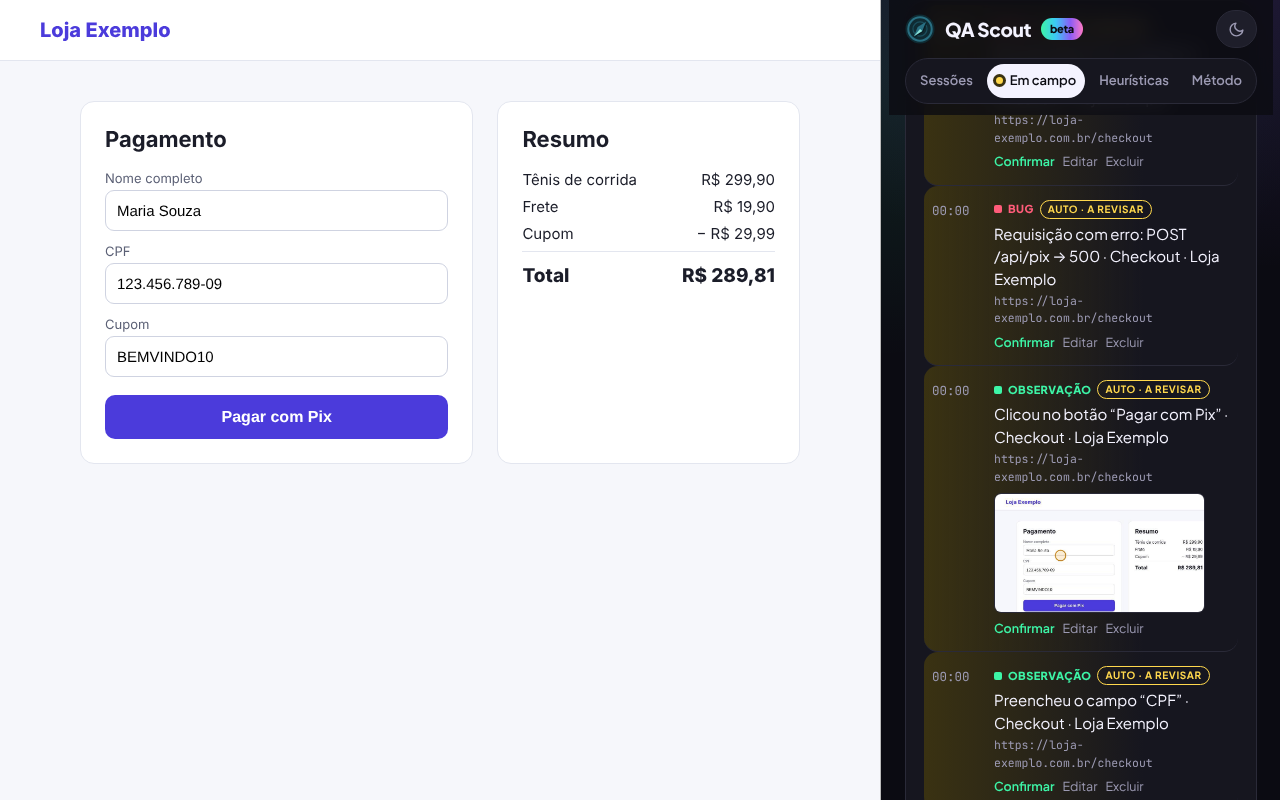
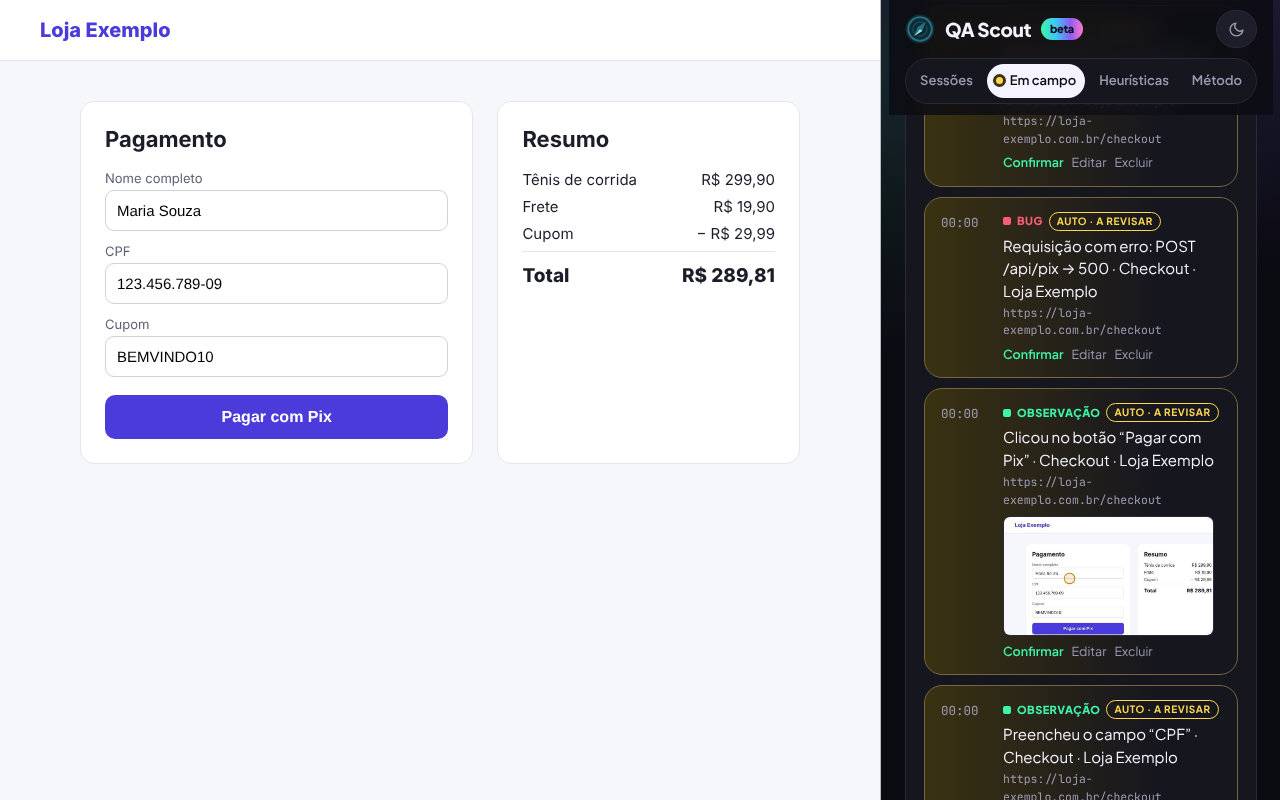
Espaço entre as notas do diário e entre o baralho e os botões
As notas viram cartões separados (10 px entre elas) e os botões do
baralho de heurísticas descolam da pilha de cartas.

Claude-Session: https://claude.ai/code/session_01WhADsV5nq7XwvGjXuhGxo7

Changed region(s): [[0.7188, 0.125, 0.9688, 1.0]]

diff --git a/index.html b/index.html
@@ -412,6 +412,12 @@ body.com-abertura{overflow:hidden}
 .livros{margin:0;padding-left:18px;display:grid;gap:8px;font-size:14px;color:var(--muted)}.livros b{color:var(--ink)}
 @media (prefers-reduced-motion:reduce){.fc-in{transition:none}}
 @media print{.flashcards{display:block}.fc{height:auto;perspective:none;break-inside:avoid;margin-bottom:12px}.fc-in{transform:none!important}.fc-face{position:static;backface-visibility:visible;transform:none}}
+.log{gap:10px}
+.log .note{border:1px solid var(--line);border-radius:18px;padding:14px 16px;background:var(--surface)}
+.log .note.pendente{background:linear-gradient(90deg,var(--marker-soft),var(--surface) 75%);border-color:color-mix(in srgb,var(--marker) 35%,var(--line))}
+.revisar .note{border:1px solid var(--line);border-radius:16px;padding:12px 14px;margin-bottom:10px;background:var(--surface)}
+.mesa{gap:34px}
+.mesa-acoes{margin-top:14px}
 /* ===== visual neon (camada sobre os componentes) ===== */
 body{background:radial-gradient(900px 500px at 85% -10%,color-mix(in srgb,var(--violet) 18%,transparent),transparent 70%),radial-gradient(700px 400px at -10% 10%,color-mix(in srgb,var(--accent) 10%,transparent),transparent 70%),var(--paper);background-attachment:fixed}
 h1,h2,h3{letter-spacing:-.025em;font-weight:800}
